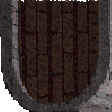
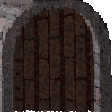
Fixed rendering order of vulture doors

diff --git a/src/game/Nethack3DEngine.ts b/src/game/Nethack3DEngine.ts
@@ -374,6 +374,7 @@ type VultureDoorPlaneOverlay = {
   frontMaterial: THREE.MeshBasicMaterial;
   backMaterial: THREE.MeshBasicMaterial;
   floorMaterial: THREE.MeshBasicMaterial;
+  doorOrientation: VultureWallProjectionFamily;
 };
 type FpsChamferWallUvRotation = "none" | "lr_ccw" | "fb_ccw";
 
@@ -9102,6 +9103,7 @@ class Nethack3DEngine implements Nethack3DEngineController {
       frontMaterial,
       backMaterial,
       floorMaterial,
+      doorOrientation: "sn",
     };
     mesh.userData.vultureDoorPlaneOverlay = overlay;
     return overlay;
@@ -9305,6 +9307,7 @@ class Nethack3DEngine implements Nethack3DEngineController {
       floorLookup = glyphFloorLookup;
     }
     const overlay = this.ensureVultureDoorPlaneOverlay(mesh);
+    overlay.doorOrientation = family;
     const floorPlaneZ = anchorFloorToWall
       ? -WALL_HEIGHT / 2 + TILE_SIZE * 0.003
       : TILE_SIZE * 0.003;
@@ -10728,6 +10731,14 @@ class Nethack3DEngine implements Nethack3DEngineController {
         doorState,
         side,
       );
+      if (
+        (family === "door_open_ew" || family === "door_closed_ew") &&
+        side === "front"
+      ) {
+        // E/W back-facing door planes need an additional half turn to match
+        // visual orientation with in-world left-side rendering.
+        rotationDegrees = (rotationDegrees + 180) % 360;
+      }
     } else if (family !== "floor") {
       face = this.resolveVultureWallProjectionFace(
         lookup as VultureWallProjectionLookup | null,
@@ -26776,6 +26787,84 @@ class Nethack3DEngine implements Nethack3DEngineController {
     }
   }
 
+  private updateVultureDoorPlaneRenderOrdering(): void {
+    if (!this.shouldUseVultureTiles()) {
+      return;
+    }
+    const cameraX = this.camera.position.x;
+    const cameraY = this.camera.position.y;
+    const playerX = this.playerPos.x * TILE_SIZE;
+    const playerY = -this.playerPos.y * TILE_SIZE;
+    const axisEpsilon = TILE_SIZE * 0.06;
+    const doorBehindFrontOrder = this.vultureFrontWallPlaneRenderOrder;
+    const doorBehindBackOrder = this.vultureFrontWallPlaneRenderOrder + 0.05;
+    const doorAheadFrontOrder = this.vultureBillboardRenderOrder + 0.1;
+    const doorAheadBackOrder = this.vultureBackWallPlaneRenderOrder;
+
+    for (const mesh of this.tileMap.values()) {
+      const overlay = mesh.userData?.vultureDoorPlaneOverlay as
+        | VultureDoorPlaneOverlay
+        | undefined;
+      if (!overlay) {
+        continue;
+      }
+      const orientation =
+        overlay.doorOrientation === "ew" || overlay.doorOrientation === "sn"
+          ? overlay.doorOrientation
+          : null;
+      if (!orientation) {
+        continue;
+      }
+      const tileX =
+        typeof mesh.userData?.tileX === "number" &&
+        Number.isFinite(mesh.userData.tileX)
+          ? Math.trunc(mesh.userData.tileX)
+          : null;
+      const tileY =
+        typeof mesh.userData?.tileY === "number" &&
+        Number.isFinite(mesh.userData.tileY)
+          ? Math.trunc(mesh.userData.tileY)
+          : null;
+      if (tileX === null || tileY === null) {
+        continue;
+      }
+
+      const doorCenterX = tileX * TILE_SIZE;
+      const doorCenterY = -tileY * TILE_SIZE;
+      const cameraAxisDelta =
+        orientation === "ew" ? cameraX - doorCenterX : cameraY - doorCenterY;
+      const playerAxisDelta =
+        orientation === "ew" ? playerX - doorCenterX : playerY - doorCenterY;
+      const cameraSide =
+        cameraAxisDelta > axisEpsilon
+          ? 1
+          : cameraAxisDelta < -axisEpsilon
+            ? -1
+            : 0;
+      const playerSide =
+        playerAxisDelta > axisEpsilon
+          ? 1
+          : playerAxisDelta < -axisEpsilon
+            ? -1
+            : 0;
+
+      // If camera/player are on opposite sides of the door plane, the door
+      // draws in front of the player. Crossing 180 degrees around Y naturally
+      // flips sides and therefore flips this rule.
+      const doorInFrontOfPlayer =
+        cameraSide !== 0 && playerSide !== 0 && cameraSide !== playerSide;
+      const frontOrder = doorInFrontOfPlayer
+        ? doorAheadFrontOrder
+        : doorBehindFrontOrder;
+      const backOrder = doorInFrontOfPlayer
+        ? doorAheadBackOrder
+        : doorBehindBackOrder;
+      overlay.frontMesh.renderOrder = frontOrder;
+      overlay.backMesh.renderOrder = backOrder;
+      overlay.floorMesh.renderOrder = frontOrder - 1;
+    }
+  }
+
   private animate(timeMs: number = performance.now()): void {
     requestAnimationFrame(this.animateFrameCallback);
     const rawDeltaMs =
@@ -26803,6 +26892,7 @@ class Nethack3DEngine implements Nethack3DEngineController {
     this.updateEffectAnimations(timeMs);
     this.updateDamageEffects(deltaSeconds);
     this.updateTileRevealFades(timeMs);
+    this.updateVultureDoorPlaneRenderOrdering();
     if (this.composer) {
       this.updateTaaState();
       this.composer.render(deltaSeconds);
